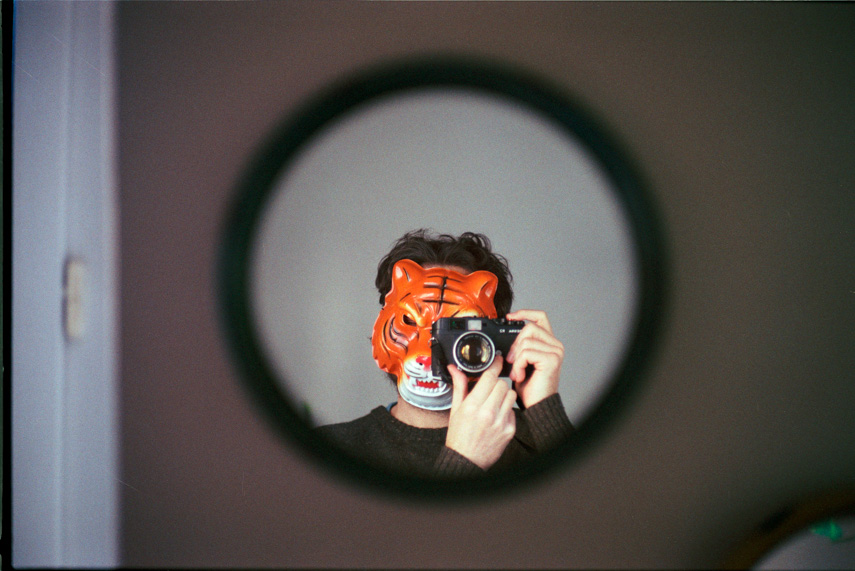
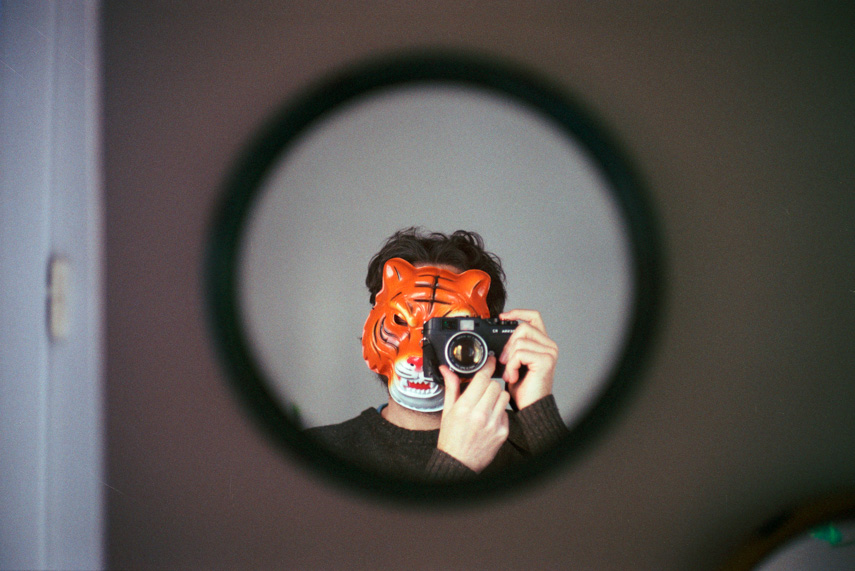
new post

diff --git a/content/post/2018-12-26-la-torche-2.md b/content/post/2018-12-26-la-torche-2.md
@@ -1,8 +1,8 @@
 +++
-title = "La Torche 2"
-date = "2018-12-26"
+title = "Autoretrato"
+date = "2018-12-30"
 categories = ["film"]
-tags = ["black & white","bretagne","france","atlántico","kodak","400tx","film", "surf"]
-photo = "2018-12-26-la-torche-2"
-orientation = "portrait"
+tags = ["color","film", "fujifilm", "fujicolor C200", "push+1","autoretrato"]
+photo = "2018-12-30-autoretrato"
+orientation = "landscape"
 +++
